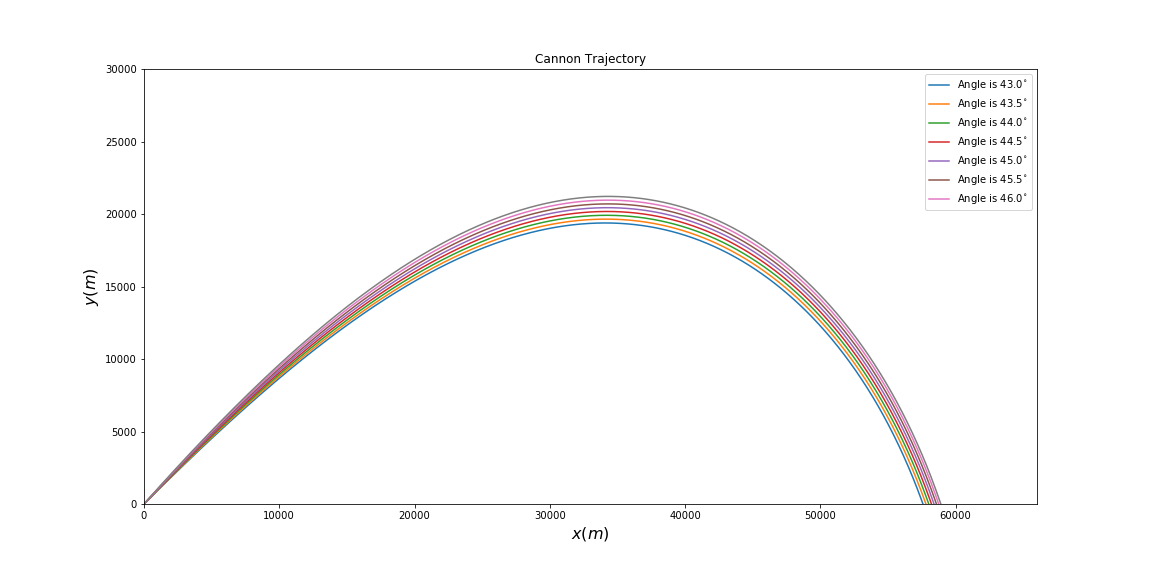
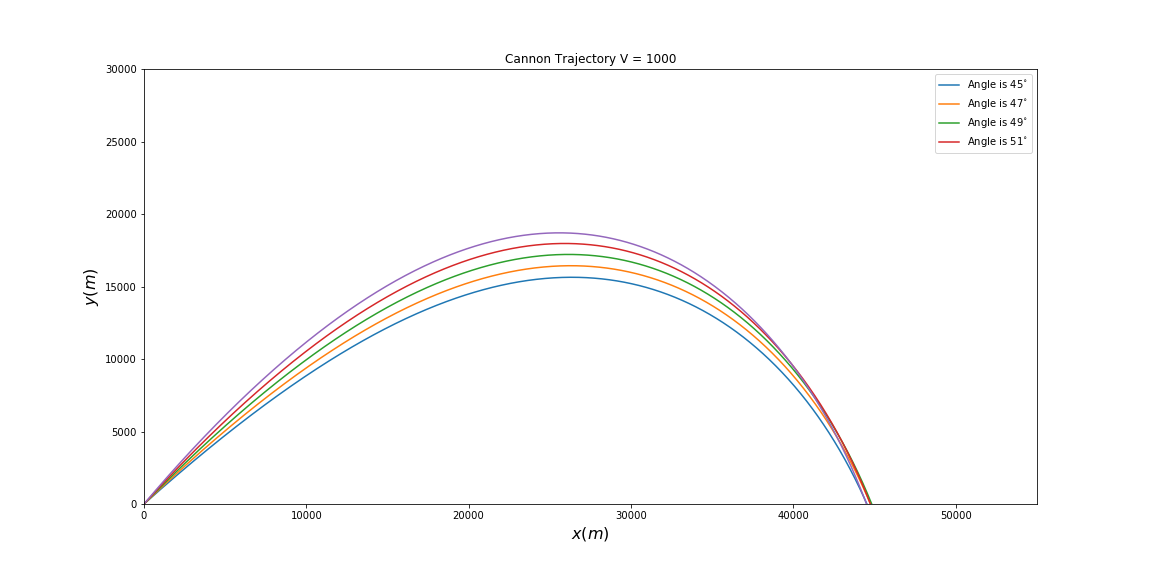
V2

diff --git a/Exercise_04/E04V2.py b/Exercise_04/E04V2.py
@@ -1,0 +1,117 @@
+# -*- coding: utf-8 -*-
+"""
+Created on Fri Oct 13 22:46:04 2017
+
+@author: 王乎
+"""
+import sys
+import math
+import time
+import numpy 
+from matplotlib import pyplot
+from numpy import arange
+
+# fixed 
+g        = 9.8
+B2m      = 4e-5
+iniSpeed = 1600
+sita     = math.pi/2
+sign     = -2
+##############################################
+#    Set  Angle 
+inputStartAngle = arange(0,90,5)
+'''
+inputStartAngle = input("Start Angle : ")
+startAngle = float(inputStartAngle)
+if startAngle >= 0 and startAngle <= 90:
+    Angle = (startAngle/90)*sita 
+else :
+    print("error") 
+    exit()
+'''
+
+
+class FlightState:
+    def __init__(self, _x = 0, _y = 0, _vx = 0, _vy = 0, _t = 0):
+        self.x  = _x
+        self.y  = _y
+        self.vx = _vx
+        self.vy = _vy
+        self.t  = _t
+
+
+class CannonShell:
+    def __init__(self, _fs = FlightState(0, 0, 0, 0, 0), _dt = 0.1):
+        self.flightState = []
+        self.flightState.append(_fs)
+        self.dt = _dt
+        print ("good!")
+        
+    def getNextState(self,currentState):
+        #currentState = self.flightState[-1]
+        nx  = currentState.x  + currentState.vx * self.dt
+        ny  = currentState.y  + currentState.vy * self.dt
+        nvx = currentState.vx + self.getCurrentAcc(currentState)[0] * self.dt
+        nvy = currentState.vy + self.getCurrentAcc(currentState)[1] * self.dt
+        return FlightState(nx, ny, nvx, nvy, currentState.t + self.dt)
+        
+    def shoot(self):
+        while not(self.flightState[-1].y < 0):
+            self.flightState.append(self.getNextState(self.flightState[-1]))
+            
+        r = - self.flightState[-2].y / self.flightState[-1].y
+        self.flightState[-1].x = (self.flightState[-2].x + r * self.flightState[-1].x)/(r+1)
+        self.flightState[-1].y = 0
+    
+    def getCurrentAcc(self,currentState):
+        factor     = self.getFactor(currentState)
+        ax         = factor * (-B2m * currentState.vx**2)
+        ay         = factor * (-B2m * currentState.vy**2)-g
+        currentAcc = [ax,ay]
+        return currentAcc
+        
+    def getFactor(self,currentState):
+        alpha  = 2.5
+        a      = 6.5e-3
+        factor = (1-a*currentState.y / 287.15)**alpha
+        return factor
+        
+    def showTrajectory(self):
+        global tx,ty
+        x = []
+        y = []
+        for fs in self.flightState:
+            x.append(fs.x)
+            y.append(fs.y)
+        pyplot.plot(x, y, label = 'Angle is $%s^{\circ}$'%startAngle)
+
+
+###################################################################################
+fig = pyplot.figure(figsize=(16,8))
+xmin, xmax = 0., 10e+4
+ymin, ymax = 0., 5e+4
+dx = (xmax - xmin) * 0.1
+dy = (ymax - ymin) * 0.2
+ax = pyplot.axes(xlim = (xmin, xmax + dx), ylim = (ymin, ymax + dy))
+
+
+
+for i in range(len(inputStartAngle)):
+    startAngle = inputStartAngle[i]
+    Angle      = (startAngle/90)*sita
+    # name the axis
+    pyplot.xlabel(r'$x(m)$', fontsize=16)
+    pyplot.ylabel(r'$y(m)$', fontsize=16)
+    pyplot.title("Cannon Trajectory V = %s"%iniSpeed)
+    pyplot.legend(loc='Angle is $%s^{\circ}$'%startAngle)
+
+##################################################################################
+    iniVy = iniSpeed*math.sin(Angle)
+    iniVx = iniSpeed*math.cos(Angle)
+    cannonShell = CannonShell(FlightState(0, 0, iniVx, iniVy, 0), _dt = 0.1)
+    cannonShell.shoot()
+    cannonShell.showTrajectory()
+
+    pyplot.savefig("Cannon Trajectory")
+
+pyplot.show()
